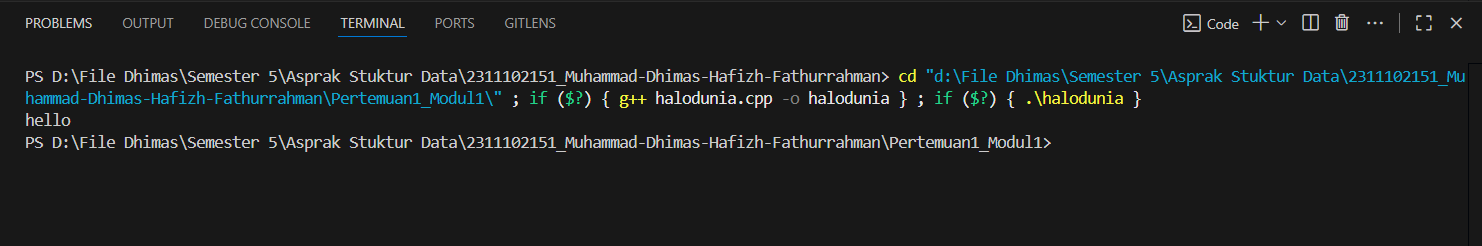
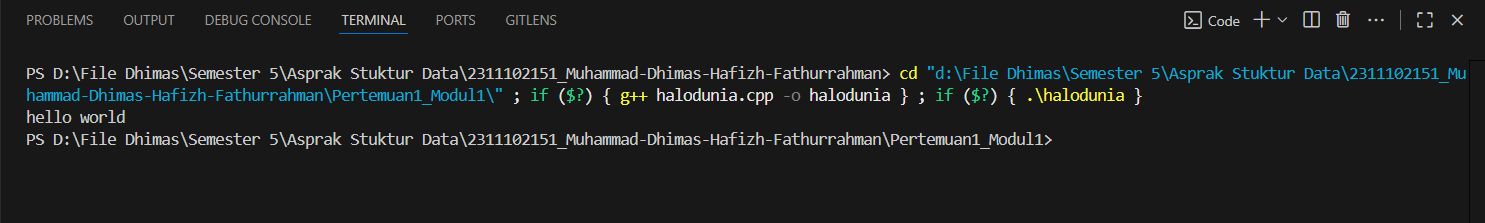
Fix_Modul1

Changed region(s): [[0.0, 0.2691, 0.9933, 0.6726], [0.0, 0.0538, 0.3725, 0.1614], [0.776, 0.0538, 0.9933, 0.1345]]

diff --git a/Pertemuan1_Modul1/halodunia.cpp b/Pertemuan1_Modul1/halodunia.cpp
@@ -2,6 +2,6 @@
 using namespace std;
 
 int main(){
-    cout<< "hello" << endl;
+    cout << "hello world" << endl;
     return 0;
 }

diff --git a/Pertemuan1_Modul1/Template-Laprak-Strukdat(1).md b/Pertemuan1_Modul1/Template-Laprak-Strukdat(1).md
@@ -4,7 +4,7 @@
 ## Dasar Teori
 isi dengan penjelasan dasar teori disertai referensi jurnal (gunakan kurung siku [] untuk pernyataan yang mengambil refernsi dari jurnal).
 contoh :
-Linked list atau yang disebut juga senarai berantai adalah Salah satu bentuk struktur data yang berisi kumpulan data yang tersusun secara sekuensial, saling bersambungan, dinamis, dan terbatas[1]. Linked list terdiri dari sejumlah node atau simpul yang dihubungkan secara linier dengan bantuan pointer. array adalah ...
+Linked list atau yang disebut juga senarai berantai adalah Salah satu bentuk struktur data yang berisi kumpulan data yang tersusun secara sekuensial, saling bersambungan, dinamis, dan terbatas[1]. Linked list terdiri dari sejumlah node atau simpul yang dihubungkan secara linier dengan bantuan pointer.
 
 ### A. ...<br/>
 ...
@@ -27,11 +27,11 @@ Linked list atau yang disebut juga senarai berantai adalah Salah satu bentuk str
 using namespace std;
 
 int main(){
-    cout << "hello world" << end;
+    cout << "hello world" << endl;
     return 0;
 }
 ```
-guided 1 membahas tentang cara pembuatan program hello world
+guided 1 membahas cara membuat program hello world ...
 
 ### 2. ...
 
@@ -49,7 +49,7 @@ penjelasan singkat guided 3
 
 ## Unguided 
 
-### 1. soal nomor 1
+### 1. Soal Unguided 1
 
 buatlah program yang menerima inputan ...
 
@@ -58,7 +58,7 @@ buatlah program yang menerima inputan ...
 using namespace std;
 
 int main(){
-    cout << "hello world" << end;
+    cout << "hello world" << endl;
     return 0;
 }
 ```
